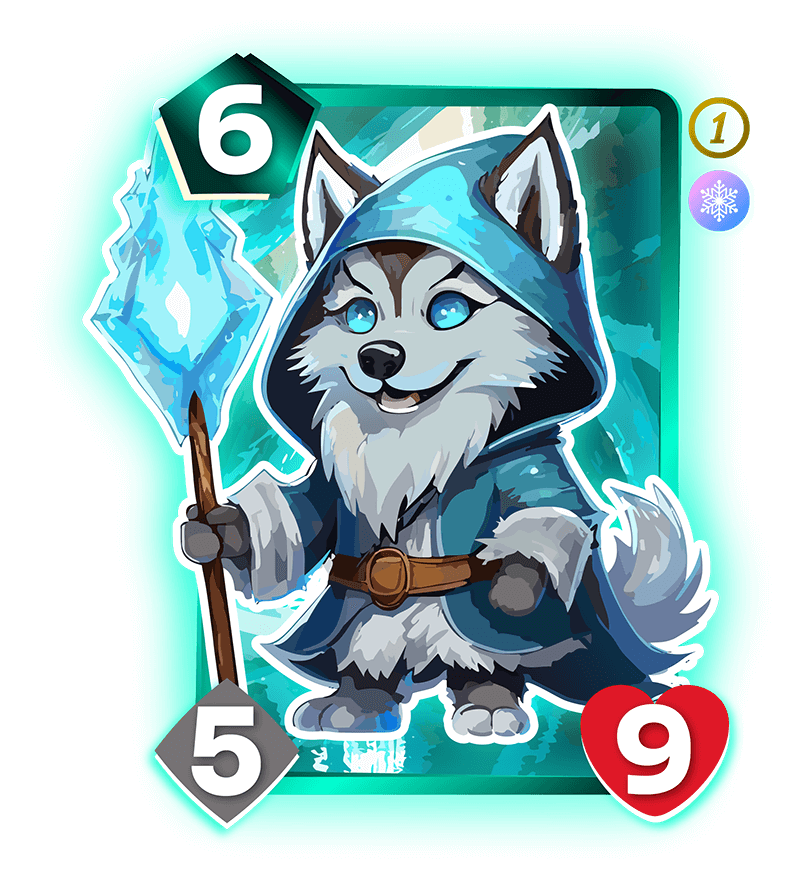
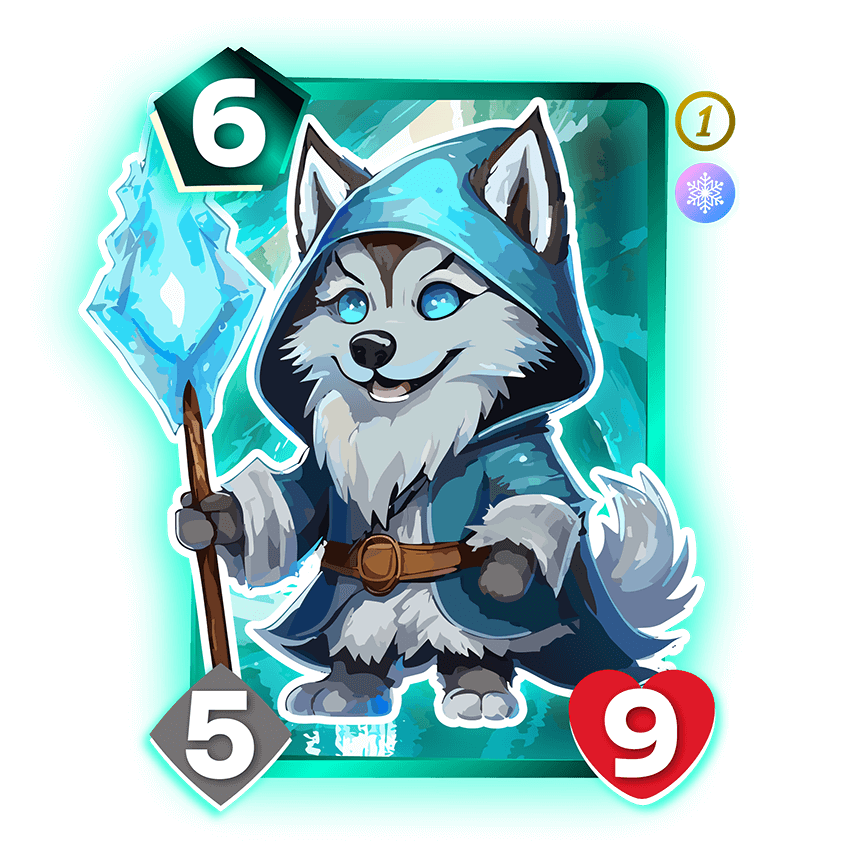
Wording fixes, website rendering fix attempts, set up some NFTs

diff --git a/apps/battlepets-web/src/app/page.tsx b/apps/battlepets-web/src/app/page.tsx
@@ -62,7 +62,7 @@ const ROADMAP_POINTS: { heading: string; items: React.ReactNode[] }[] = [
   {
     heading: 'Q2 2024',
     items: [
-      <strong>Airdrop</strong>,
+      <strong>BPETS airdrop</strong>,
       <strong>BPETS presale</strong>,
       <>
         <strong>BPETS</strong> token launch
@@ -414,7 +414,7 @@ const Home = () => {
                     <>
                       Sign up below for the <strong>BPETS airdrop</strong> and <strong>public sale</strong> at
                       pre&#8209;launch price, where you also get a{' '}
-                      <span className={globalStyles.promoText}>limited&#8209;edition</span> <strong>Hellcat</strong>!
+                      <span className={globalStyles.promoText}>limited edition</span> <strong>Hellcat</strong>!
                     </>
                   }
                   email={email}

diff --git a/apps/battlepets-sale-portal/index.html b/apps/battlepets-sale-portal/index.html
@@ -8,7 +8,7 @@
 
     <meta
       name="description"
-      content="Participate in the BPETS token sale at pre-launch price, and win a free limited-edition NFT!"
+      content="Participate in the BPETS token sale at pre-launch price, and win a free limited edition NFT!"
     />
 
     <meta name="robots" content="noindex" />
@@ -27,7 +27,7 @@
     <meta property="og:title" content="Battlepets Sale" />
     <meta
       property="og:description"
-      content="Participate in the BPETS token sale at pre-launch price, and win a free limited-edition NFT!"
+      content="Participate in the BPETS token sale at pre-launch price, and win a free limited edition NFT!"
     />
     <meta property="og:image" content="/opengraph-image.png" />
     <meta property="og:url" content="https://sale.battlepets.io" />

diff --git a/apps/battlepets-web/src/app/page.module.scss b/apps/battlepets-web/src/app/page.module.scss
@@ -1140,6 +1140,10 @@
 
   @include breakpoints.breakpoint(xxl) {
     max-width: 38rem;
+
+    img {
+      transform: scale(1.04);
+    }
   }
 }
 
@@ -1566,6 +1570,7 @@
     opacity: 0.55;
     transform: translateX(-50%);
     width: 120%;
+    z-index: -1;
 
     @include breakpoints.breakpoint(sm) {
       background-position: bottom -2rem center;

diff --git a/apps/battlepets-scripts/src/common/constants.ts b/apps/battlepets-scripts/src/common/constants.ts
@@ -43,7 +43,7 @@ export const NFT_SYMBOL = 'BPETS'
 export const NFT_SELLER_FEE_BASIS_POINTS = 5 // %
 
 export const MASTER_NFTS = {
-  '1-pvtbarkley-g-1': '9oBcE79id4trmWHLKF9pD2bVUTfRtKzpYGSoBGZsq1oD',
+  '1-pvtbarkley-gen-1': '9oBcE79id4trmWHLKF9pD2bVUTfRtKzpYGSoBGZsq1oD',
 }
 
 interface EmailData {

diff --git a/apps/battlepets-web/src/common/global.module.scss b/apps/battlepets-web/src/common/global.module.scss
@@ -118,6 +118,7 @@
 .scaleInOnReveal3,
 .scaleInOnReveal4 {
   opacity: 0;
+  will-change: opacity;
 }
 
 .slowScaleInOnReveal {

diff --git a/apps/battlepets-web/src/components/socials.module.scss b/apps/battlepets-web/src/components/socials.module.scss
@@ -2,6 +2,7 @@
 
 .socialButtonsWrapper {
   display: flex;
+  z-index: 1;
 
   > * {
     margin-right: 1.4rem;
